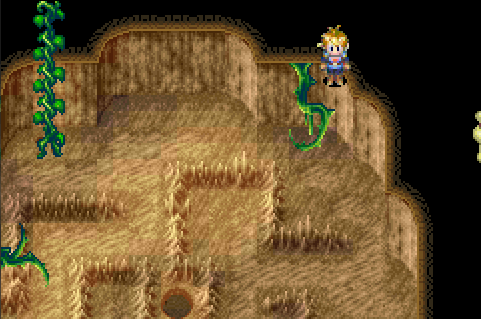
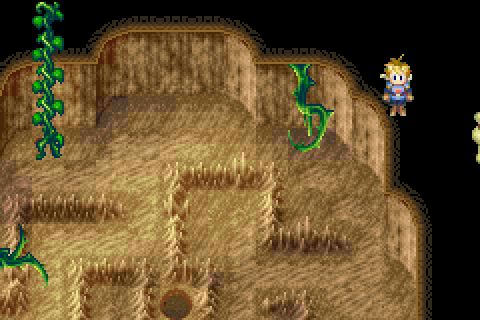
updated ace setup route

diff --git a/Information/ACE setup for GS1.md b/Information/ACE setup for GS1.md
@@ -90,9 +90,12 @@ Immediately after the battle (before moving), **use the hard nut on Isaac**.  He
 Cross the bridge to the north-east, run west to this cluster of trees, and press "A" to pick up the turtle boots.  
 ![turtle_boots](gs1_ace_images/turtle_boots_forest.png)  
 
-**Put the Turtle Boots in Garet's 12th item slot, and equip it.**  Then, run to Kolima Forest.
+Put the Turtle Boots in Garet's 12th item slot, and **equip it**.  Then, run to Kolima Forest.
 
-Solve the log puzzles, and continue running from everything.  Keep everyone topped up on HP, but don't worry too much if someone dies.  When you get to the floodgate room, **collect the Fur Coat from the chest, and equip it on Isaac** (it is possible to grab the coat from the other side of the log with some finagling).  Finish the room, and enter Tret.
+Solve the log puzzles, and continue running from everything.  Keep everyone topped up on HP, but don't worry too much if someone dies.  
+
+When you get to the floodgate room, **collect the Fur Coat from the chest, and equip it on Isaac** (it is possible to grab the coat from the other side of the log if facing west-northwest; solve the puzzle normally if you can't get it that way).  Finish the room, and enter Tret.  
+![fur_coat](gs1_ace_images/fur_coat.png)
 
 ## Tret
 ![tret1](gs1_ace_images/tret1.png)  
@@ -117,40 +120,45 @@ If you get a bad encounter: save, hard reset, then continue wherever you left of
 ## Slot 8
 ![tret2](gs1_ace_images/tret2.png)  
 
-1. Run Up + Right until you see Isaac, then run into the corner shown in the image
+1. Run Up + Right until you see Isaac, then run around into the corner shown in the image above.  (The hitbox of the corner doesn't quite match the visual, but you'll see Isaac nestle into that spot when holding Down + Left.)
 
-2. Run Up + Left for at least 23 total bass notes.  Then run Right for at least 1 bass note.  Heal your party as you go.
+2. Run Up + Left for at least 23 total bass notes.  Heal your party as you go.  At the end, if you think you're close to getting an encounter, wiggle left and right until you get one.  You should wind up in the corner shown below.  The fast moving numbers are the "RNG river".  
+![river](gs1_ace_images/river.gif)  
 
-3. **Drain your PP to 6 or less** (so that it doesn't teleport you when you run across it), save, and hard reset.  If it has been a while since your last encounter, you can wiggle left and right until you get one before saving.
+3. Run Right for at least 1 bass note, **drain your PP to 6 or less** (so that it doesn't teleport you when you run across it), save, and hard reset.
 
-4. Run Up for at least 7 bass notes (crossing the RNG river).  If you pop out somewhere else, reset (soft or hard) and try again.  If you crossed successfully, you may press "A" to "check the jar", confirming you've reached the top of the map.
+4. Run Up for at least 7 bass notes (crossing the RNG river).  If you pop out somewhere else, reset (soft or hard) and try again.  If you crossed successfully, you may press "A" to "check the jar", confirming you've reached the top of the map.  
+![top_of_map](gs1_ace_images/top_of_the_map.png)  
+Isaac's Defense stat is the green `39`.  His PP is the red `03` two tiles below you.  Garet's 12th item slot is the red `03` three tiles below you.
 
-5. **Unequip** the Turtle Boots on Garet but leave them in his 12th item slot (creating a wall beneath you).  Then run straight down at least half a bass note.
+5. Drain your PP to 2.  If you can't reach 2 exactly, put Flint on Isaac and switch him to standby/set.
 
-6. Give the Turtle Boots to Isaac, but don't equip them yet.  Double-check that only the **Wooden Cap, Fur Coat, and Bronze Shield** are equipped on Isaac.  Put Flint on Isaac if he isn't already.  Go through everybody's inventory and make sure that none of the stackable items have 3 or more.  If they do, redistribute or drop them.
+6. **Unequip** the Turtle Boots on Garet but leave them in his 12th item slot (creating a wall beneath you).  Then run straight down at least half a bass note.
 
-7. Step to the right.  Open your status menu, and press R once to shift the player in slot 1.  You should see that your party is corrupted.  Your cursor in the item menu might disappear, but it still functions normally.  You are now standing on Isaac's Defense stat.
+7. Give the Turtle Boots to Isaac, but don't equip them yet.  Double-check that only the **Wooden Cap, Fur Coat, and Bronze Shield** are equipped on Isaac.  Go through everybody's inventory and make sure that none of the stackable items have 3 or more.  If they do, redistribute or drop them.
 
-8. Equip the Leather Gloves, close all menus, then shift the player in slot 1.
-9. Equip the Turtle Boots, close all menus, then shift the player in slot 1.
-10. Equip the Open Helm.  Save the last shift for later.
+8. Step to the right.  You are now standing on Isaac's Defense stat.  Open your status menu, and press R once to shift the player in slot 1.  You should see that your party is corrupted.  Your cursor in the item menu might disappear, but it still functions normally.
 
-11. Drain your PP to 2, then step left.  If you can't reach 2 exactly, standby Flint.  You should pop out here again  
+9. Equip the Leather Gloves, close all menus, then shift the player in slot 1.
+10. Equip the Turtle Boots, close all menus, then shift the player in slot 1.
+11. Equip the Open Helm.  Save the last shift for later.
+
+12. Step left.  You should pop out here again  
 ![tret_branch](gs1_ace_images/tret_branch.png)  
-12. Retreat with a hotkey again (without enough pp), save and hard reset.
+13. Retreat with a hotkey (without enough pp), save and hard reset.
 
 ## Getting to the ACE Tile
-1. In Tret out-of-bounds, run Up + Right until you see Isaac, then run to here:  
-![position2](gs1_ace_images/position2.png)  
-2. Run Up at least 8 bass notes, step Left at least 1 tile, and run Up at least 1 bass note
-3. Move left, but stop moving the moment the screen moves
+1. In Tret out-of-bounds, run Up + Right until you see Isaac, then run to this corner: ![position2](gs1_ace_images/position2.png)  
+(same corner  as last time)
+2. Run Up at least 9 bass notes
+3. Move left, but stop moving the moment the screen moves (anywhere from 1-8 pixels of screen movement is fine)
 4. Run Up for roughly 2 bass notes
 5. Press A.  If you get the text "Isaac checked the barrel", you're in the right spot.  Otherwise, move up a little and press A again.  (If your timing was perfect on the previous step, you'll be 3 tiles below the right spot.)  
 ![final_movement](gs1_ace_images/final_movement.png)  
 (the brown `F3` is the barrel, and the yellow `30` is the ACE tile)
 6. Move left until you see a vertical line on the left edge of the screen.  Position it 0-1 pixels from the left edge.  
 ![position3](gs1_ace_images/position3.png)  
-7. **Walk** left for **exactly** 1 beat
+7. **Walk left** (don't run) for **exactly** 1 beat
 
 **Unequip everything on Isaac**, and make sure each character's PP is either full or less than 7.  Also make sure nobody's stackable items exceed 2.  To test if you're in the right spot, you may save, then run Down.  If you're off by 1-2 tiles, you'll pop out on a vine within a second.
 
@@ -160,3 +168,7 @@ If you believe you're in the right spot, shift the player in slot 1 (activating 
 Open and close the A menu and step Down + Left.  The Tret cutscene should begin.  If everything went correctly, then when it completes, you should see the camera jump down, and Debug Mode should be active.
 
 To execute arbitrary code, Hold B and press Select to open the flag menu, and press L to scroll to the 6XX flag page.  Here you can input code in raw binary.  To run it, open and close the A menu again, then run Down until the Tret cutscene starts up again.  When it completes, the code will be executed.
+
+To warp to other maps, hold B and press Start.  To walk through walls, hold L.  Visit https://tcrf.net/Golden_Sun#Debug_Mode to learn about more debug mode features.
+
+![warp_menu](gs1_ace_images/warp_menu.png)
